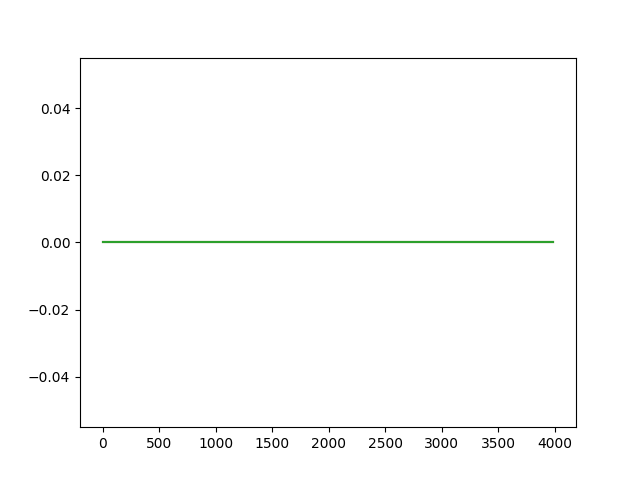
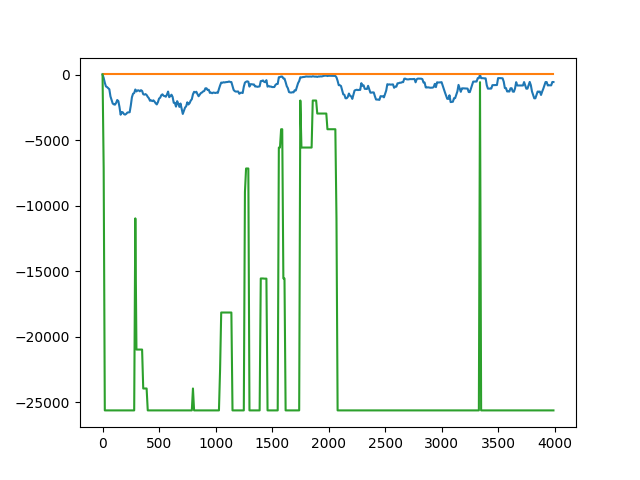
train agent

diff --git a/enviroment.py b/enviroment.py
@@ -55,7 +55,7 @@ class Paddle(pygame.sprite.Sprite):
         self.reward = 0
         self.hits = 0
         self.done = False
-
+        self.for_done = 0
         # Set the background color and set it to be transparent
         self.image = pygame.Surface([self.w, self.h])
         self.image.fill(0)					# 0 is Black
@@ -77,6 +77,7 @@ class Paddle(pygame.sprite.Sprite):
         self.hits = 0
         self.done = False
         self.goals = 0
+        self.score = 0
         self.rect.center = (x, y)
 
     def move(self, y):
@@ -118,7 +119,7 @@ class Pong():
     def reset(self):
         xmargin = 20
         self.paddleA.reset(xmargin, self.h//2)
-        self.ball.reset(self.w//2, self.h)
+        self.ball.reset(self.w//2, self.h//2)
 
         # Return the initial positions
         a_observation = np.array(
@@ -159,6 +160,7 @@ class Pong():
         # Check if the ball is bouncing against any of the 4 walls:
         if self.ball.rect.x > self.w-self.ball.r*2:
             self.ball.velocity[0] = -self.ball.velocity[0]
+            self.paddleA.score += 1
         if self.ball.rect.x < 0:
             self.paddleA.goals += 1
             self.paddleA.reward -= 1
@@ -173,8 +175,8 @@ class Pong():
             self.paddleA.collided(self.ball)
 
         # If limit reached then done...
-        lim = 20
-        if self.paddleA.hits > lim:
+        lim = 10
+        if self.paddleA.score > lim:
             self.paddleA.done = True
 
         # return observations... 1 for each paddle and ball(only y-axis)

diff --git a/q-learning.py b/q-learning.py
@@ -15,7 +15,7 @@ DISCOUNT = 0.95
 EPISODES = 4000
 SHOW_EVERY = 500
 STATS_EVERY = 100
-PLAY = False
+PLAY = True
 # ~ PLAY = False
 
 # Exploration settings
@@ -42,7 +42,7 @@ if not PLAY:
     # use the best q-table, if available...
     try:
         q_table = np.load(
-            "./qtables/qtable_0_e2000.npy")
+            "./qtables/qtable_0_e3900.npy")
         print('using best ones..')
     except:
         q_table = np.random.uniform(
@@ -55,7 +55,9 @@ if not PLAY:
         s = env.reset()
         done = False
         discrete_state = get_discrete_state(s)
+        print(done)
         while not done:
+            print("hiiiii epsoid: ", episode)
             if np.random.random() > epsilon:
                 # Get action from Q table
                 action = np.argmax(q_table[discrete_state])
@@ -122,7 +124,7 @@ if not PLAY:
 # After Training, time to play...
 try:
     q_table_a = np.load(
-        "./qtables/qtable_0_e2800.npy")
+        "./qtables/qtable_0_e3900.npy")
 
     print('file found')
     found = True
